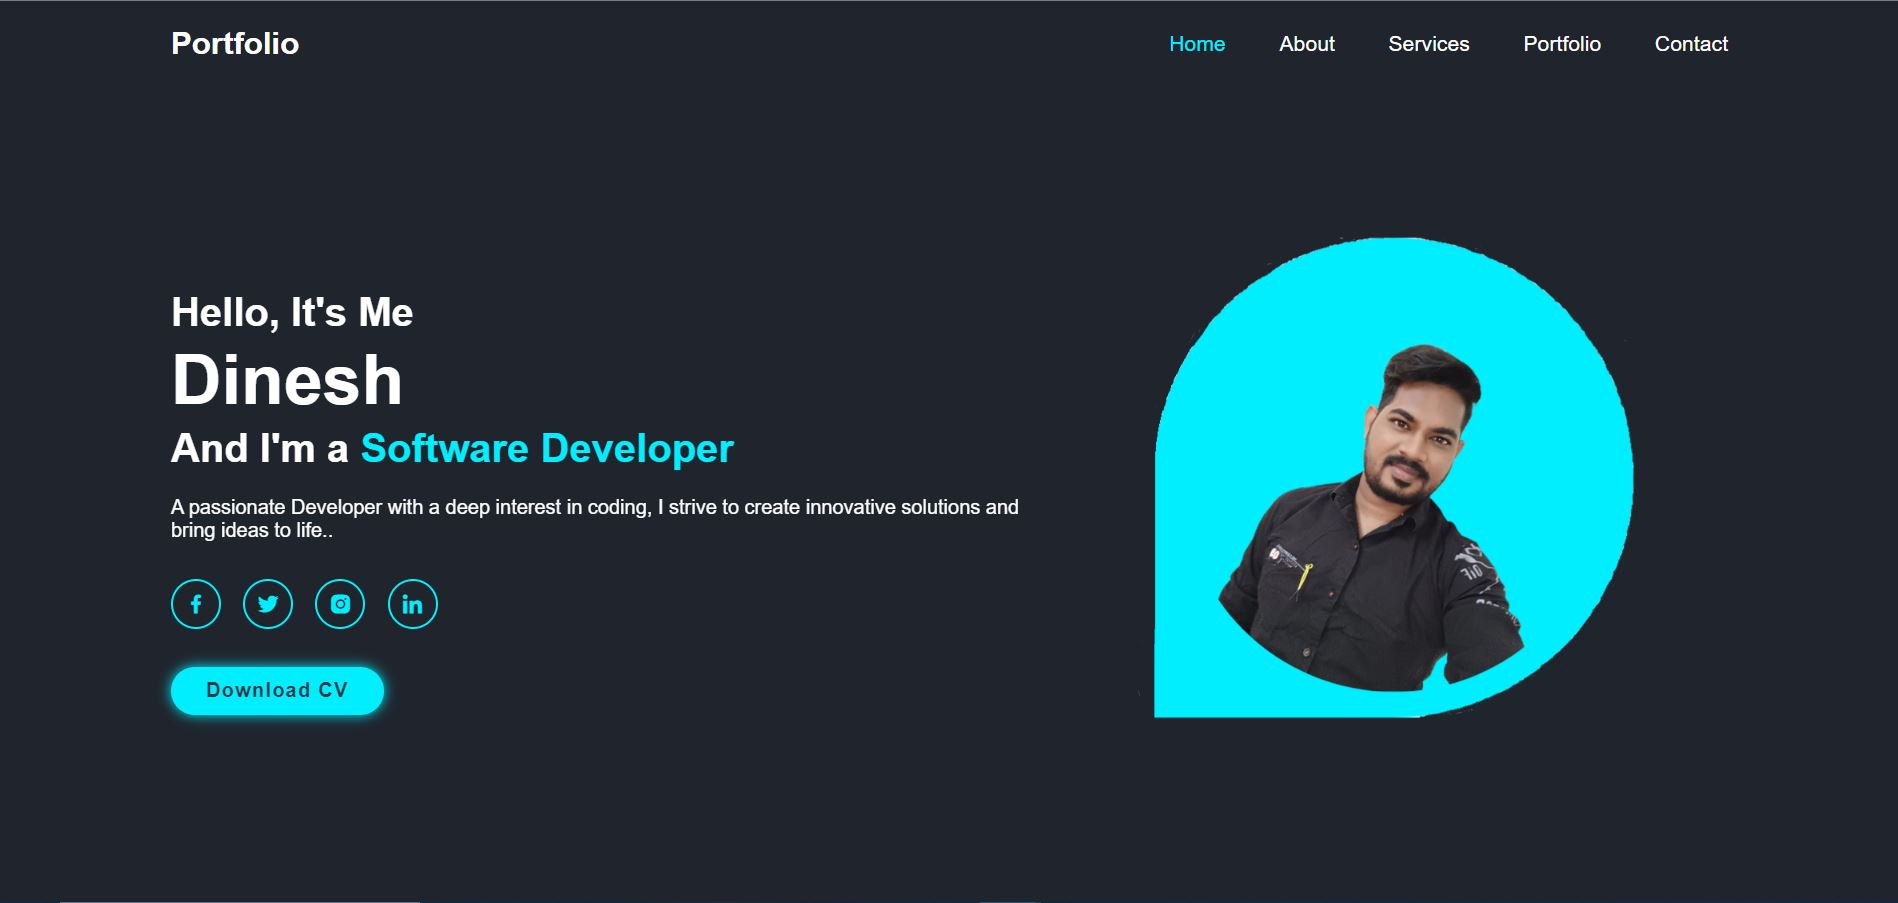
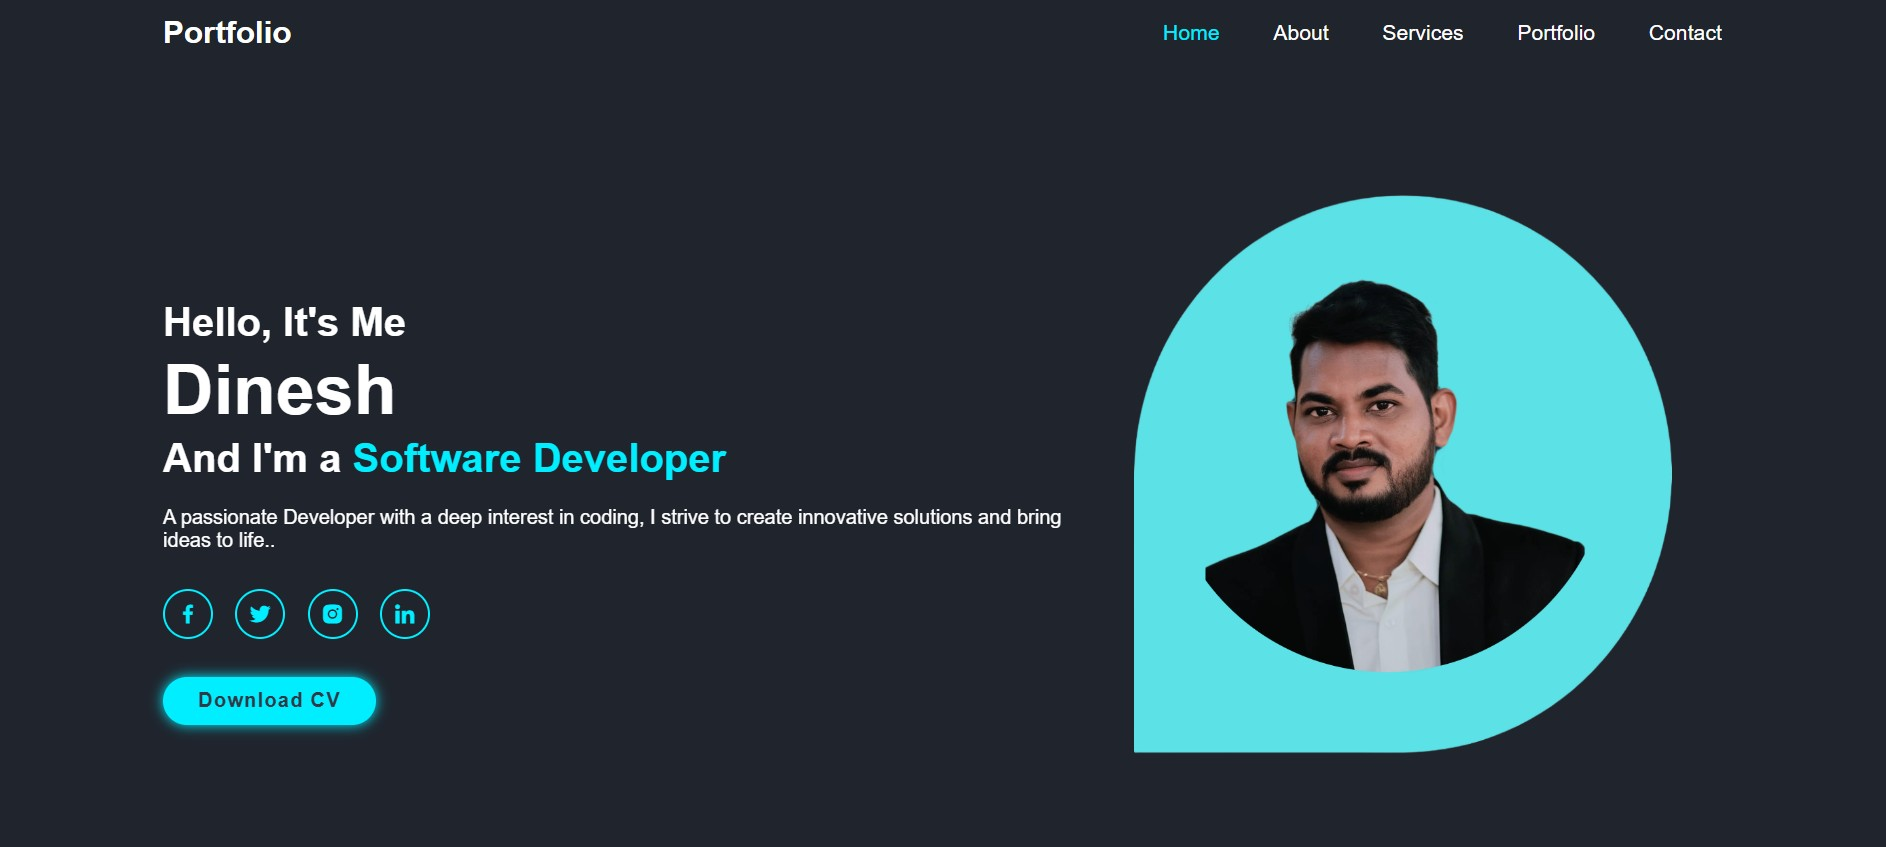
photo change

diff --git a/CSS/style.css b/CSS/style.css
@@ -97,7 +97,9 @@ section {
 }
 
 .home-img img {
-  width: 35vw;
+  width: 28vw;
+  height: auto;
+  margin: 4rem;
   animation: floatImage 4s ease-in-out infinite;
 }
 
